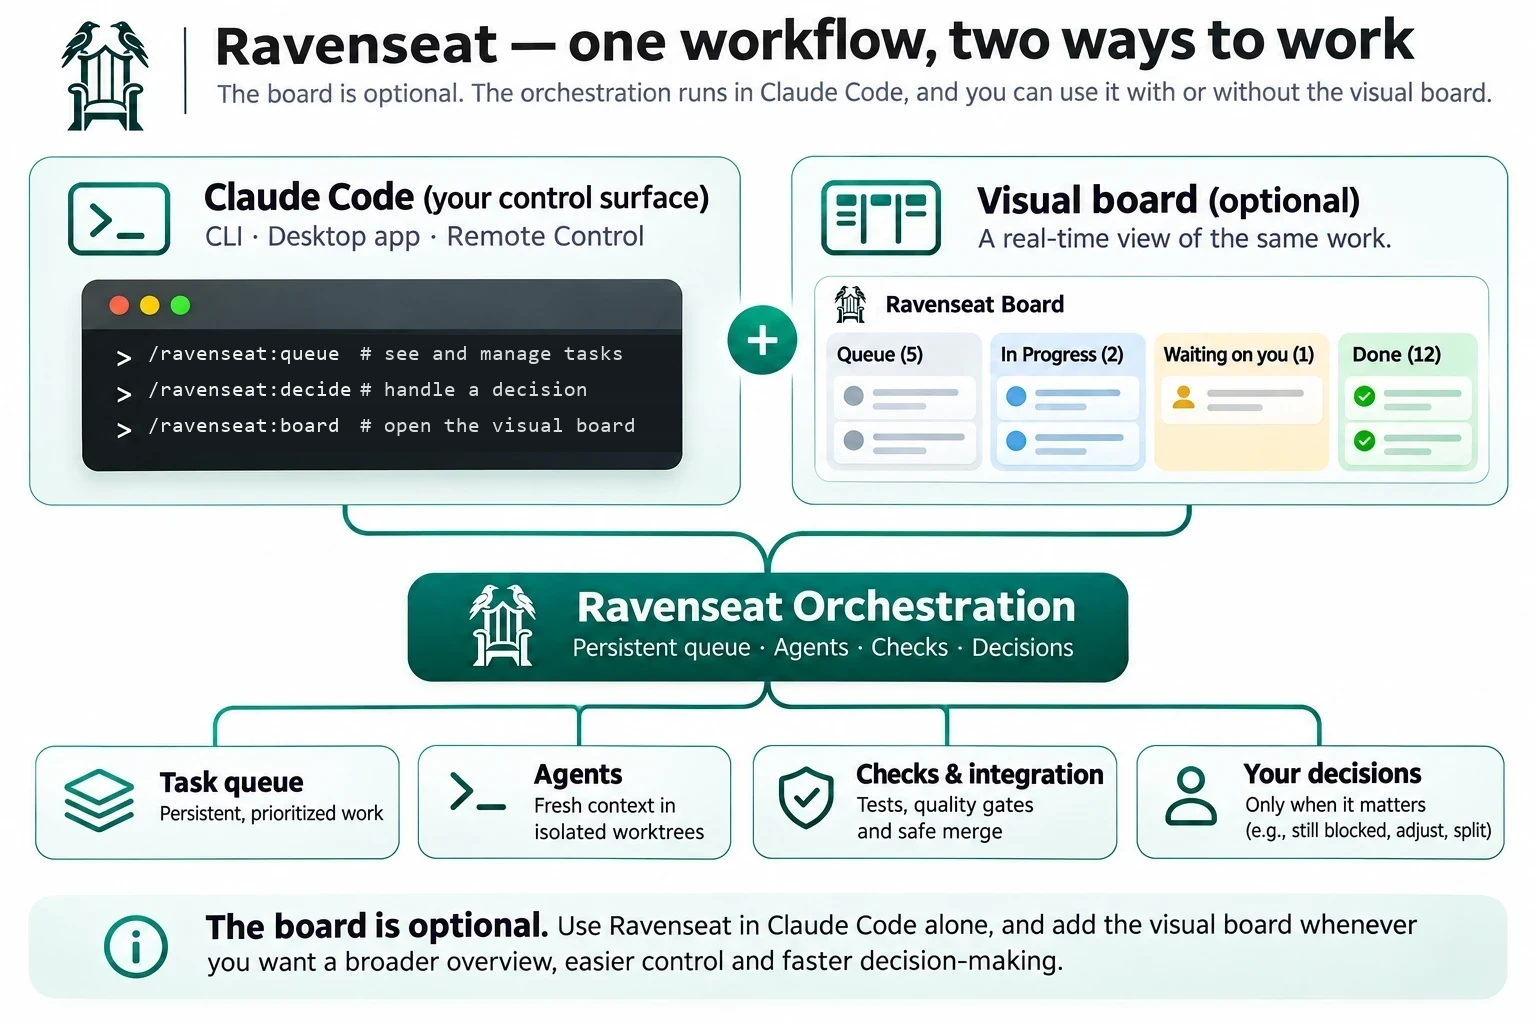
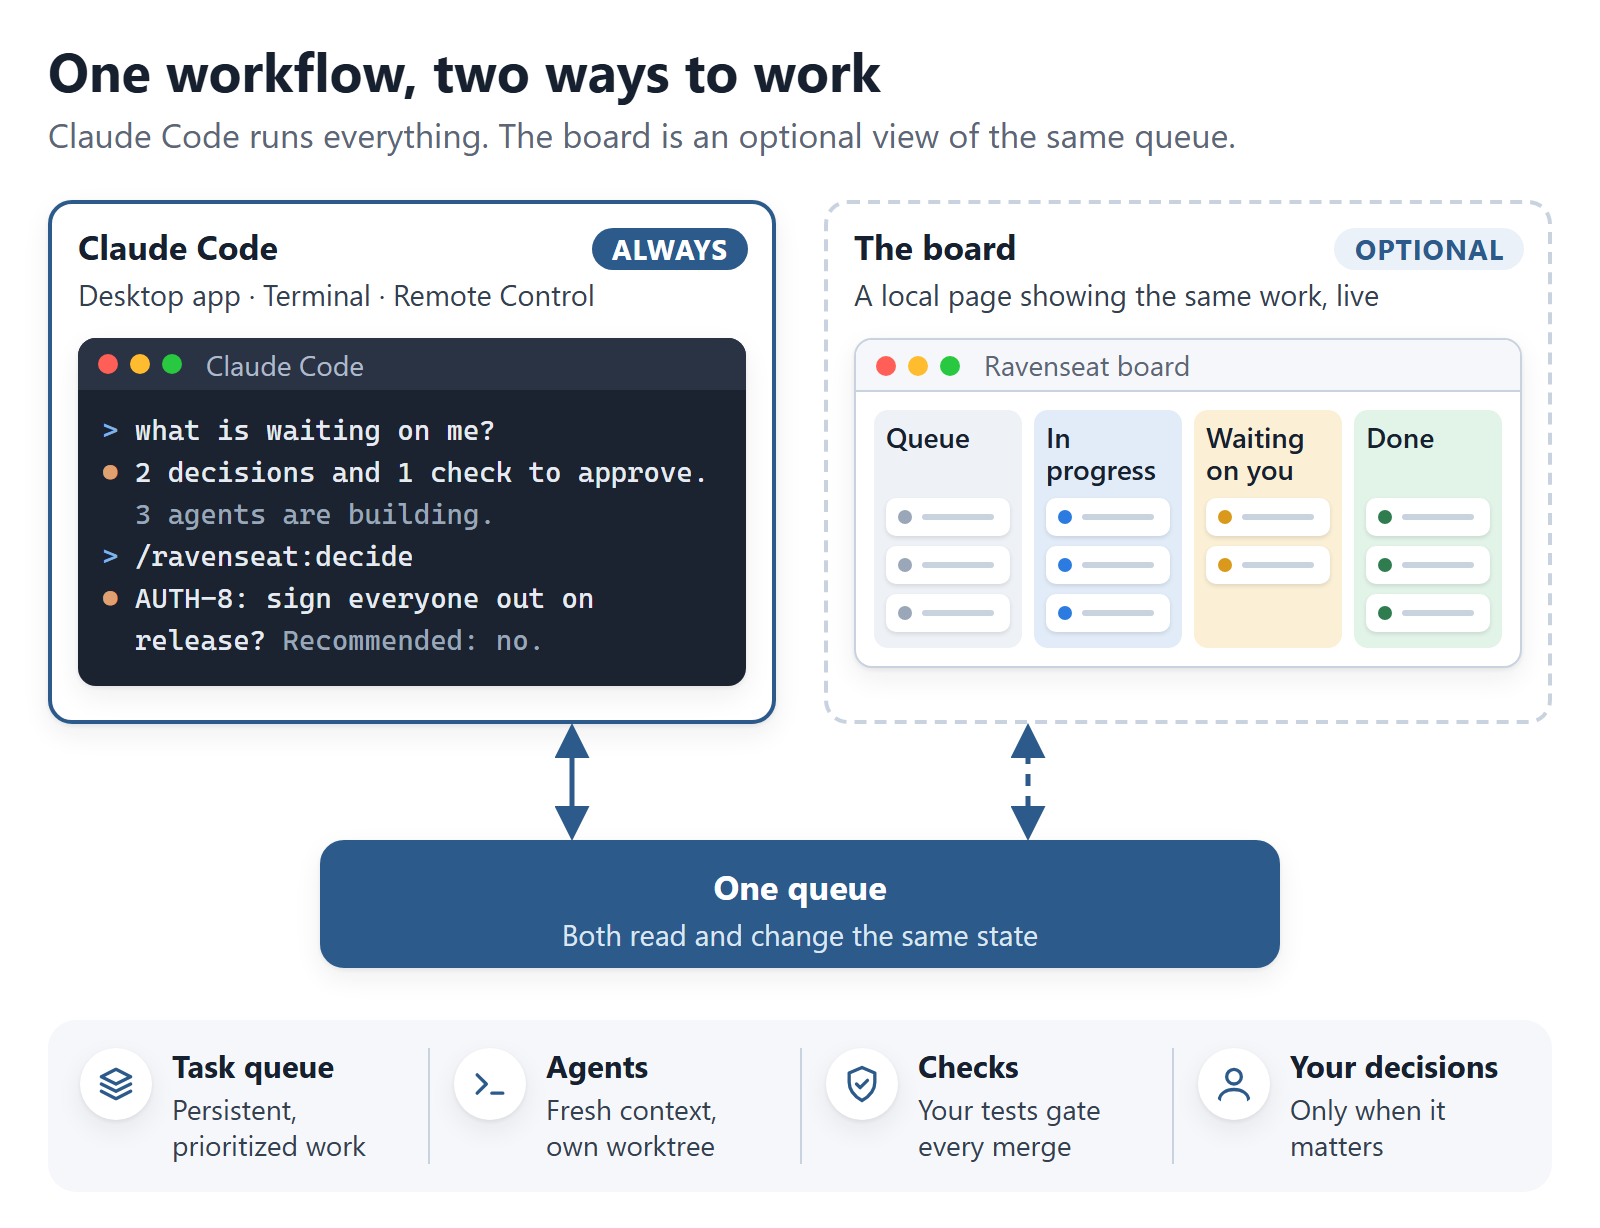
docs(readme): pitch gif at the top and refreshed infographics
Only the top-level media/ work folder is ignored, so assets/media/ is tracked.

diff --git a/README.md b/README.md
@@ -10,6 +10,8 @@
 <p align="center"><b>A work queue for Claude Code, so multi-day work doesn't depend on one chat: agents build, your tests decide, you answer what needs you.</b></p>
 <p align="center"><sub>Open source · Runs on your machine · Built for Claude Code · Board optional</sub></p>
 
+<p align="center"><img src="assets/media/explanation.gif" alt="A 40 second loop: a project spread over many chats and a long chat that costs 2.7 times more per turn, then the queue where agents build, check and merge while you step away and come back to the decisions, at about the same cost, with the board optional" width="800"></p>
+
 When a Claude Code project outgrows one chat, the signs are familiar:
 
 - Findings, research and half-built features are spread across dozens of chats.
